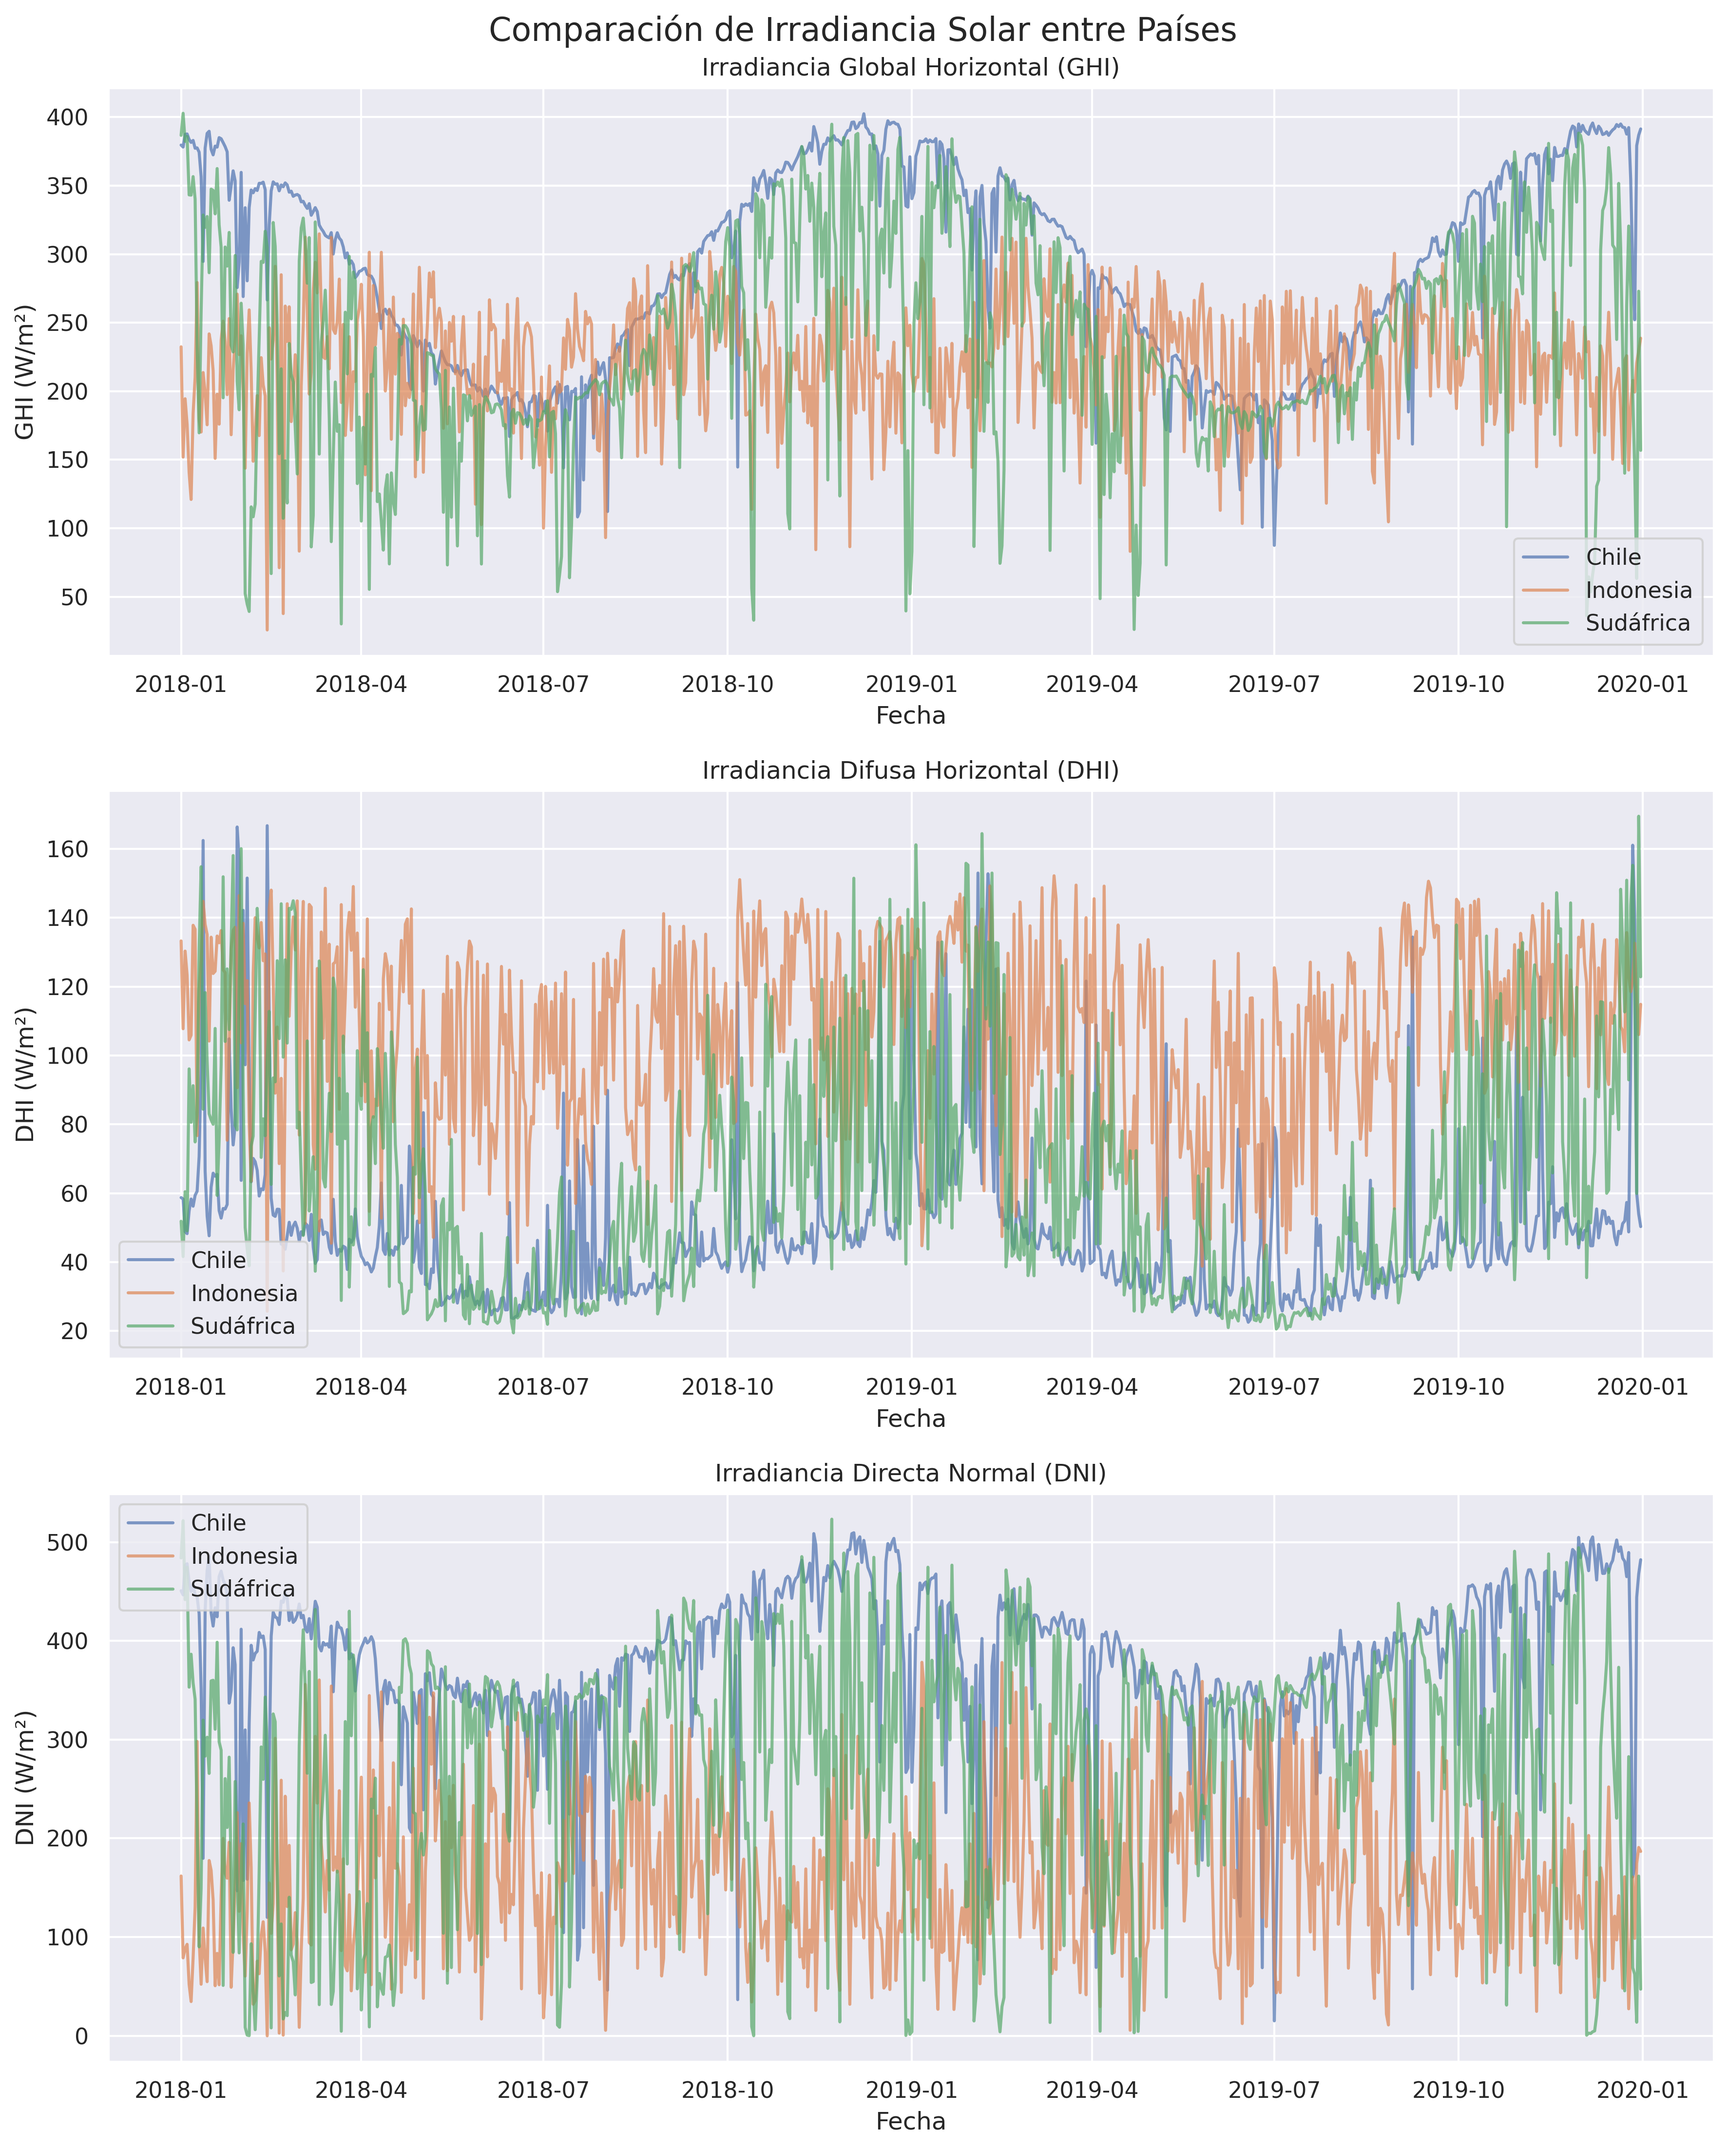
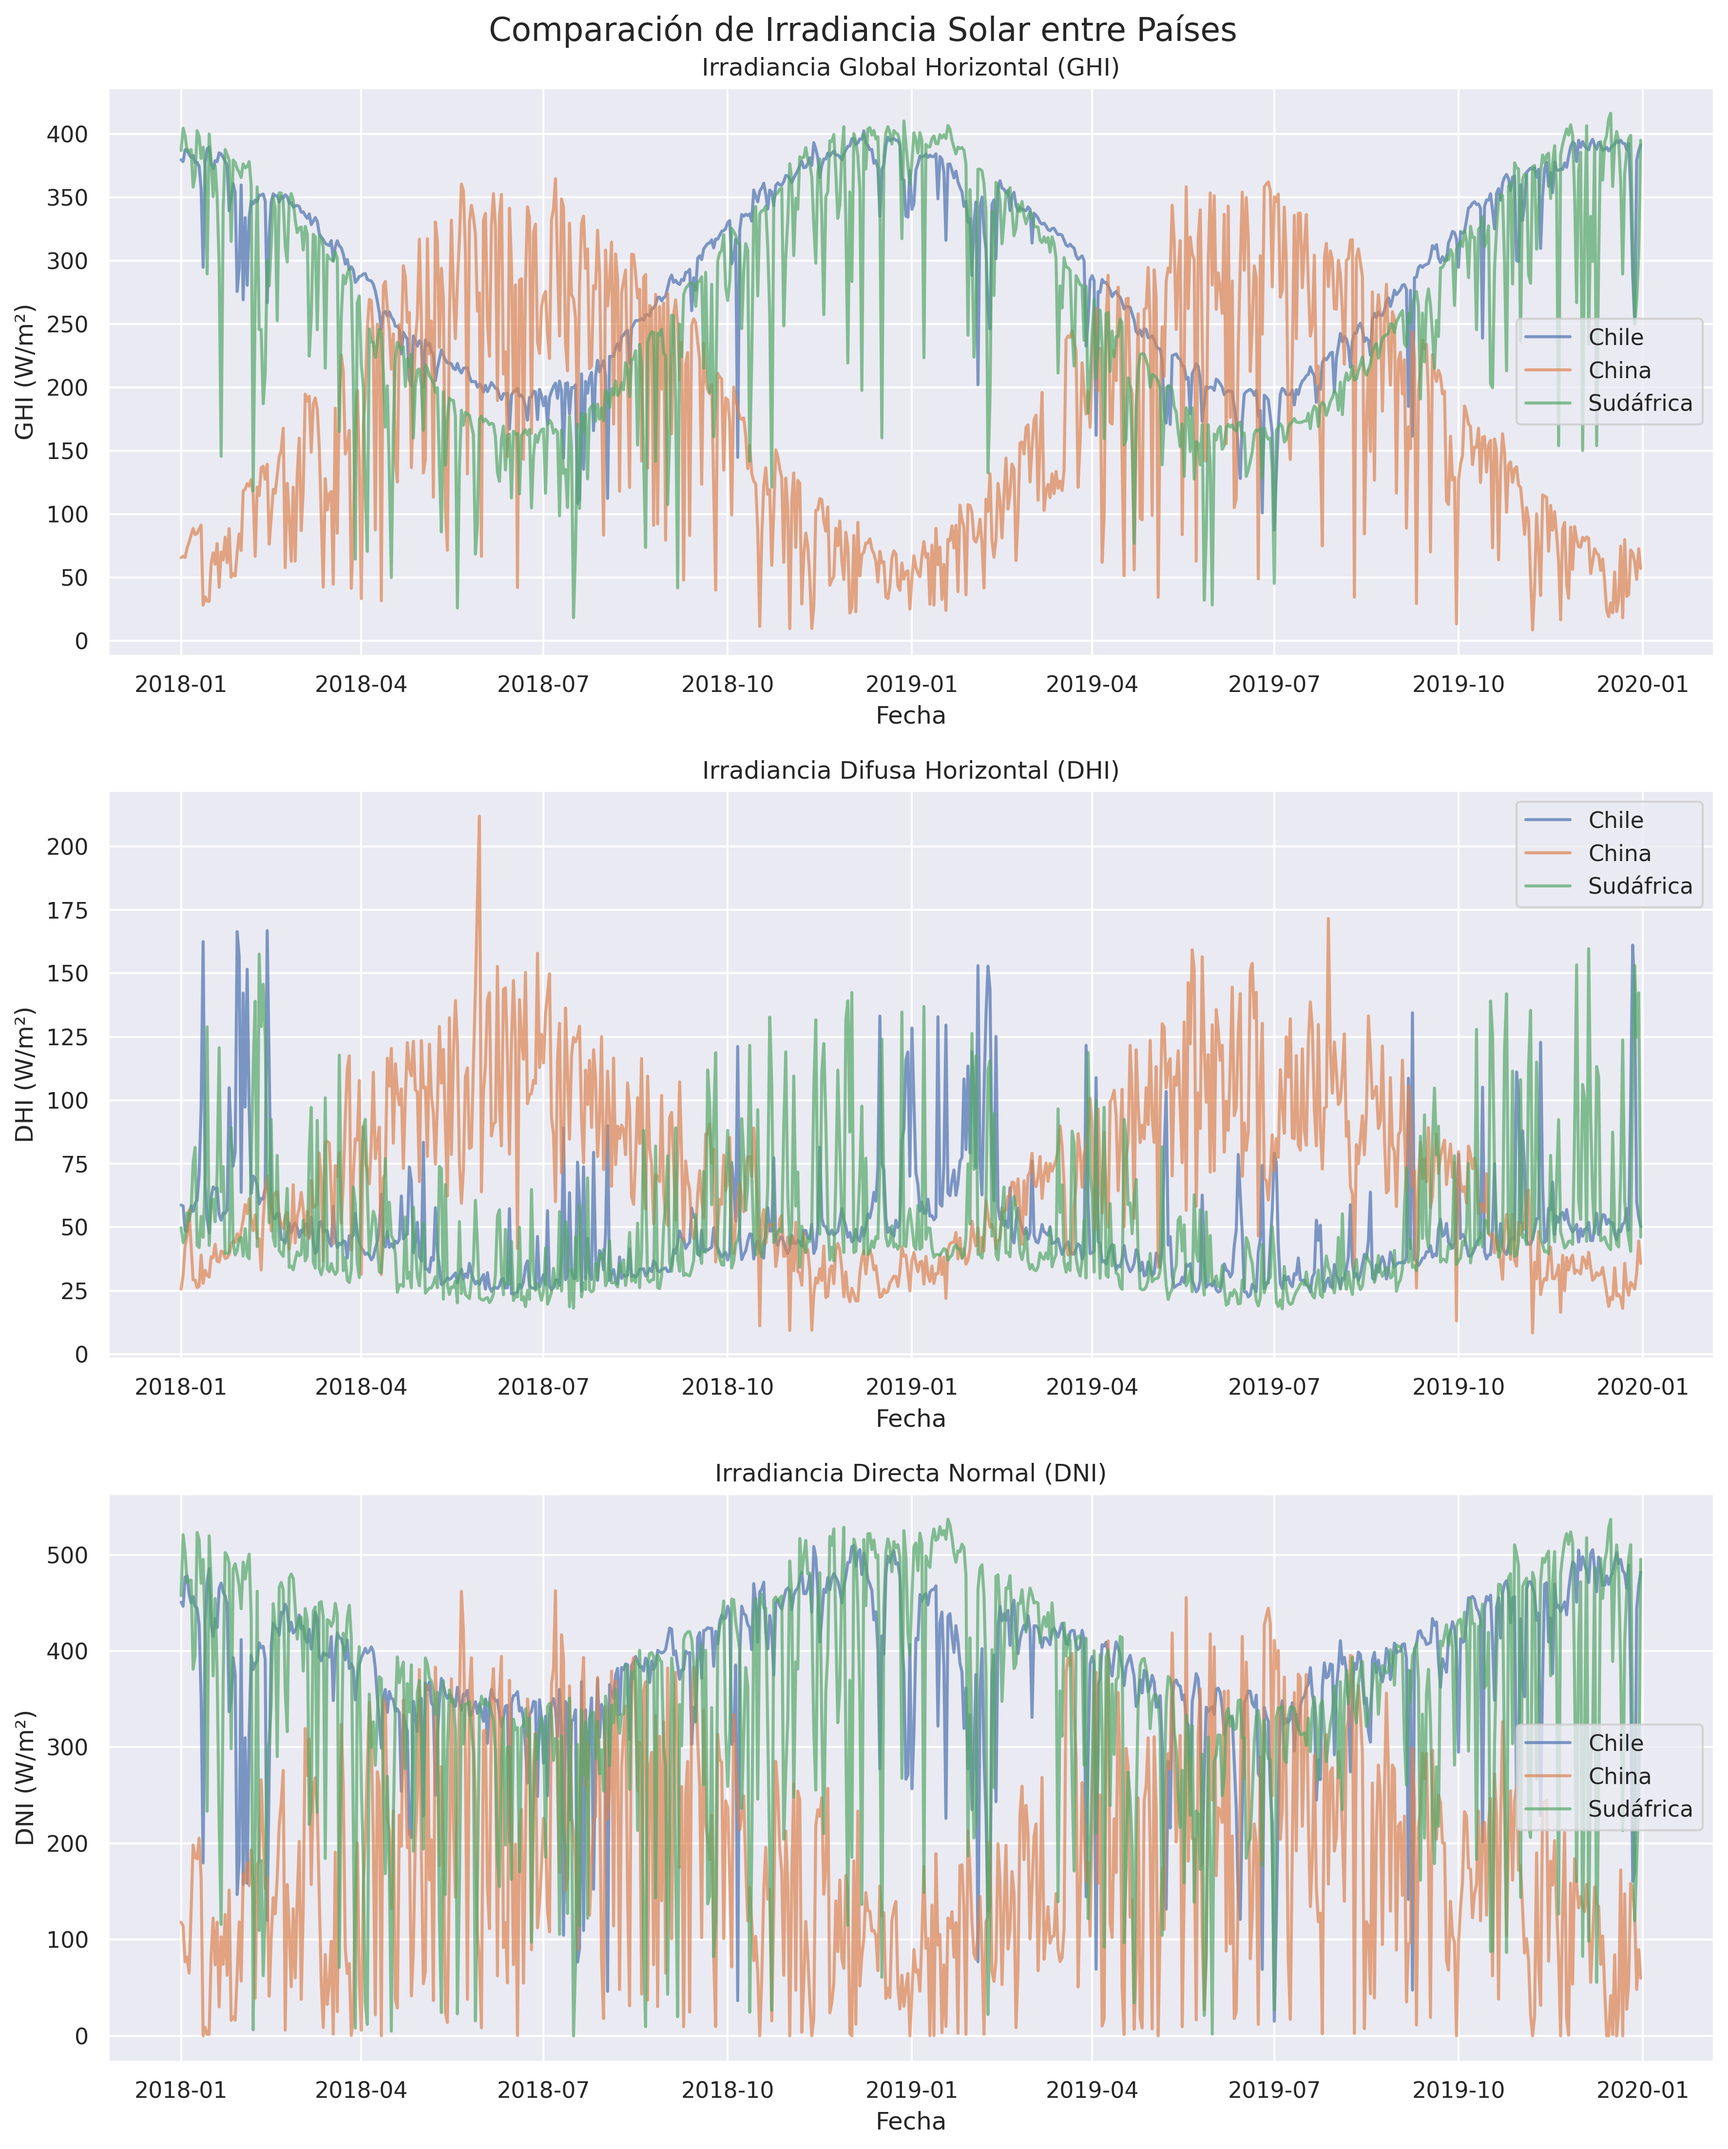
resultados comparacion de irradiancias

diff --git a/Prueba1/comparacion_irradiancias.py b/Prueba1/comparacion_irradiancias.py
@@ -1,114 +1,147 @@
-import pandas as pd
+import polars as pl
 import matplotlib.pyplot as plt
 import seaborn as sns
-from pathlib import Path
+from datetime import datetime
+import os
 
-# Configurar el estilo de las gráficas
-plt.style.use('default')  # Usar estilo por defecto en lugar de seaborn
-sns.set_theme()  # Configurar tema de seaborn
+# Configuración del estilo de las gráficas
+plt.style.use('seaborn')
+sns.set_palette("husl")
 
-# Cargar los datos
-resultados_dir = Path("Prueba1/resultados")
-chile_data = pd.read_csv(resultados_dir / "datos_Chile.csv")
-indonesia_data = pd.read_csv(resultados_dir / "datos_Indonesia.csv")
-sudafrica_data = pd.read_csv(resultados_dir / "datos_Sudáfrica.csv")
+# Crear directorio de resultados si no existe
+os.makedirs('Prueba1/resultados', exist_ok=True)
 
-# Función para calcular promedios diarios
+# Cargar los datos usando Polars
+def cargar_datos(archivo):
+    return pl.read_csv(archivo)
+
+# Cargar los datos de cada país
+datos_chile = cargar_datos('Prueba1/resultados/datos_Chile.csv')
+datos_china = cargar_datos('Prueba1/resultados/datos_China.csv')
+datos_sudafrica = cargar_datos('Prueba1/resultados/datos_Sudáfrica.csv')
+
+# Convertir las columnas de fecha y hora a datetime
+def procesar_fecha_hora(df):
+    return df.with_columns([
+        pl.col('Year').cast(pl.Int64),
+        pl.col('Month').cast(pl.Int64),
+        pl.col('Day').cast(pl.Int64),
+        pl.col('Hour').cast(pl.Int64),
+        pl.col('Minute').cast(pl.Int64)
+    ]).with_columns([
+        pl.datetime(
+            'Year', 'Month', 'Day', 'Hour', 'Minute'
+        ).alias('datetime')
+    ])
+
+# Procesar las fechas para cada dataset
+datos_chile = procesar_fecha_hora(datos_chile)
+datos_china = procesar_fecha_hora(datos_china)
+datos_sudafrica = procesar_fecha_hora(datos_sudafrica)
+
+# Calcular promedios diarios
 def calcular_promedios_diarios(df):
-    df['Fecha'] = pd.to_datetime(df[['Year', 'Month', 'Day']])
-    return df.groupby('Fecha').agg({
-        'GHI': 'mean',
-        'DHI': 'mean',
-        'DNI': 'mean'
-    }).reset_index()
+    return df.groupby_dynamic('datetime', period='1d').agg([
+        pl.col('GHI').mean().alias('GHI_mean'),
+        pl.col('DHI').mean().alias('DHI_mean'),
+        pl.col('DNI').mean().alias('DNI_mean')
+    ])
 
 # Calcular promedios diarios para cada país
-chile_daily = calcular_promedios_diarios(chile_data)
-indonesia_daily = calcular_promedios_diarios(indonesia_data)
-sudafrica_daily = calcular_promedios_diarios(sudafrica_data)
+promedios_chile = calcular_promedios_diarios(datos_chile)
+promedios_china = calcular_promedios_diarios(datos_china)
+promedios_sudafrica = calcular_promedios_diarios(datos_sudafrica)
 
-# Crear gráficas
-fig, axes = plt.subplots(3, 1, figsize=(12, 15))
-fig.suptitle('Comparación de Irradiancia Solar entre Países', fontsize=16)
+# Crear gráfica de comparación
+plt.figure(figsize=(15, 10))
 
-# GHI
-axes[0].plot(chile_daily['Fecha'], chile_daily['GHI'], label='Chile', alpha=0.7)
-axes[0].plot(indonesia_daily['Fecha'], indonesia_daily['GHI'], label='Indonesia', alpha=0.7)
-axes[0].plot(sudafrica_daily['Fecha'], sudafrica_daily['GHI'], label='Sudáfrica', alpha=0.7)
-axes[0].set_title('Irradiancia Global Horizontal (GHI)')
-axes[0].set_xlabel('Fecha')
-axes[0].set_ylabel('GHI (W/m²)')
-axes[0].legend()
-axes[0].grid(True)
+# Graficar GHI
+plt.subplot(3, 1, 1)
+plt.plot(promedios_chile['datetime'], promedios_chile['GHI_mean'], label='Chile', linewidth=2)
+plt.plot(promedios_china['datetime'], promedios_china['GHI_mean'], label='China', linewidth=2)
+plt.plot(promedios_sudafrica['datetime'], promedios_sudafrica['GHI_mean'], label='Sudáfrica', linewidth=2)
+plt.title('Comparación de Irradiancia Global Horizontal (GHI)')
+plt.ylabel('GHI (W/m²)')
+plt.legend()
+plt.grid(True)
 
-# DHI
-axes[1].plot(chile_daily['Fecha'], chile_daily['DHI'], label='Chile', alpha=0.7)
-axes[1].plot(indonesia_daily['Fecha'], indonesia_daily['DHI'], label='Indonesia', alpha=0.7)
-axes[1].plot(sudafrica_daily['Fecha'], sudafrica_daily['DHI'], label='Sudáfrica', alpha=0.7)
-axes[1].set_title('Irradiancia Difusa Horizontal (DHI)')
-axes[1].set_xlabel('Fecha')
-axes[1].set_ylabel('DHI (W/m²)')
-axes[1].legend()
-axes[1].grid(True)
+# Graficar DHI
+plt.subplot(3, 1, 2)
+plt.plot(promedios_chile['datetime'], promedios_chile['DHI_mean'], label='Chile', linewidth=2)
+plt.plot(promedios_china['datetime'], promedios_china['DHI_mean'], label='China', linewidth=2)
+plt.plot(promedios_sudafrica['datetime'], promedios_sudafrica['DHI_mean'], label='Sudáfrica', linewidth=2)
+plt.title('Comparación de Irradiancia Difusa Horizontal (DHI)')
+plt.ylabel('DHI (W/m²)')
+plt.legend()
+plt.grid(True)
 
-# DNI
-axes[2].plot(chile_daily['Fecha'], chile_daily['DNI'], label='Chile', alpha=0.7)
-axes[2].plot(indonesia_daily['Fecha'], indonesia_daily['DNI'], label='Indonesia', alpha=0.7)
-axes[2].plot(sudafrica_daily['Fecha'], sudafrica_daily['DNI'], label='Sudáfrica', alpha=0.7)
-axes[2].set_title('Irradiancia Directa Normal (DNI)')
-axes[2].set_xlabel('Fecha')
-axes[2].set_ylabel('DNI (W/m²)')
-axes[2].legend()
-axes[2].grid(True)
+# Graficar DNI
+plt.subplot(3, 1, 3)
+plt.plot(promedios_chile['datetime'], promedios_chile['DNI_mean'], label='Chile', linewidth=2)
+plt.plot(promedios_china['datetime'], promedios_china['DNI_mean'], label='China', linewidth=2)
+plt.plot(promedios_sudafrica['datetime'], promedios_sudafrica['DNI_mean'], label='Sudáfrica', linewidth=2)
+plt.title('Comparación de Irradiancia Directa Normal (DNI)')
+plt.xlabel('Fecha')
+plt.ylabel('DNI (W/m²)')
+plt.legend()
+plt.grid(True)
 
 plt.tight_layout()
 plt.savefig('Prueba1/resultados/comparacion_irradiancias.png', dpi=300, bbox_inches='tight')
+plt.close()
 
-# Calcular estadísticas básicas
+# Calcular y mostrar estadísticas
 def calcular_estadisticas(df, pais):
-    return {
-        'País': pais,
-        'GHI Promedio': df['GHI'].mean(),
-        'DHI Promedio': df['DHI'].mean(),
-        'DNI Promedio': df['DNI'].mean(),
-        'GHI Máximo': df['GHI'].max(),
-        'DHI Máximo': df['DHI'].max(),
-        'DNI Máximo': df['DNI'].max()
-    }
+    stats = df.select([
+        pl.col('GHI').mean().alias('GHI_mean'),
+        pl.col('GHI').max().alias('GHI_max'),
+        pl.col('DHI').mean().alias('DHI_mean'),
+        pl.col('DHI').max().alias('DHI_max'),
+        pl.col('DNI').mean().alias('DNI_mean'),
+        pl.col('DNI').max().alias('DNI_max')
+    ])
+    print(f"\nEstadísticas para {pais}:")
+    print(stats)
 
-estadisticas = pd.DataFrame([
-    calcular_estadisticas(chile_daily, 'Chile'),
-    calcular_estadisticas(indonesia_daily, 'Indonesia'),
-    calcular_estadisticas(sudafrica_daily, 'Sudáfrica')
-])
+calcular_estadisticas(datos_chile, "Chile")
+calcular_estadisticas(datos_china, "China")
+calcular_estadisticas(datos_sudafrica, "Sudáfrica")
 
-print("\nEstadísticas de Irradiancia por País:")
-print(estadisticas.round(2))
+# Crear gráfica de barras para máximos
+maximos = pl.DataFrame({
+    'País': ['Chile', 'China', 'Sudáfrica'],
+    'GHI': [
+        datos_chile['GHI'].max(),
+        datos_china['GHI'].max(),
+        datos_sudafrica['GHI'].max()
+    ],
+    'DHI': [
+        datos_chile['DHI'].max(),
+        datos_china['DHI'].max(),
+        datos_sudafrica['DHI'].max()
+    ],
+    'DNI': [
+        datos_chile['DNI'].max(),
+        datos_china['DNI'].max(),
+        datos_sudafrica['DNI'].max()
+    ]
+})
 
-# Crear gráfica de barras para comparar máximos
 plt.figure(figsize=(12, 6))
-x = range(len(estadisticas['País']))
+x = range(len(maximos['País']))
 width = 0.25
 
-plt.bar([i - width for i in x], estadisticas['GHI Máximo'], width, label='GHI Máximo', color='#1f77b4', alpha=0.7)
-plt.bar(x, estadisticas['DHI Máximo'], width, label='DHI Máximo', color='#ff7f0e', alpha=0.7)
-plt.bar([i + width for i in x], estadisticas['DNI Máximo'], width, label='DNI Máximo', color='#2ca02c', alpha=0.7)
+plt.bar([i - width for i in x], maximos['GHI'], width, label='GHI')
+plt.bar(x, maximos['DHI'], width, label='DHI')
+plt.bar([i + width for i in x], maximos['DNI'], width, label='DNI')
 
 plt.xlabel('País')
 plt.ylabel('Irradiancia Máxima (W/m²)')
-plt.title('Comparación de Valores Máximos de Irradiancia por País')
-plt.xticks(x, estadisticas['País'])
+plt.title('Comparación de Máximos de Irradiancia por País')
+plt.xticks(x, maximos['País'])
 plt.legend()
-plt.grid(True, alpha=0.3)
-
-# Añadir valores sobre las barras
-for i in x:
-    plt.text(i - width, estadisticas['GHI Máximo'].iloc[i], f'{estadisticas["GHI Máximo"].iloc[i]:.1f}', 
-             ha='center', va='bottom')
-    plt.text(i, estadisticas['DHI Máximo'].iloc[i], f'{estadisticas["DHI Máximo"].iloc[i]:.1f}', 
-             ha='center', va='bottom')
-    plt.text(i + width, estadisticas['DNI Máximo'].iloc[i], f'{estadisticas["DNI Máximo"].iloc[i]:.1f}', 
-             ha='center', va='bottom')
+plt.grid(True)
 
 plt.tight_layout()
-plt.savefig('Prueba1/resultados/comparacion_maximos.png', dpi=300, bbox_inches='tight') 
+plt.savefig('Prueba1/resultados/comparacion_maximos.png', dpi=300, bbox_inches='tight')
+plt.close() 
